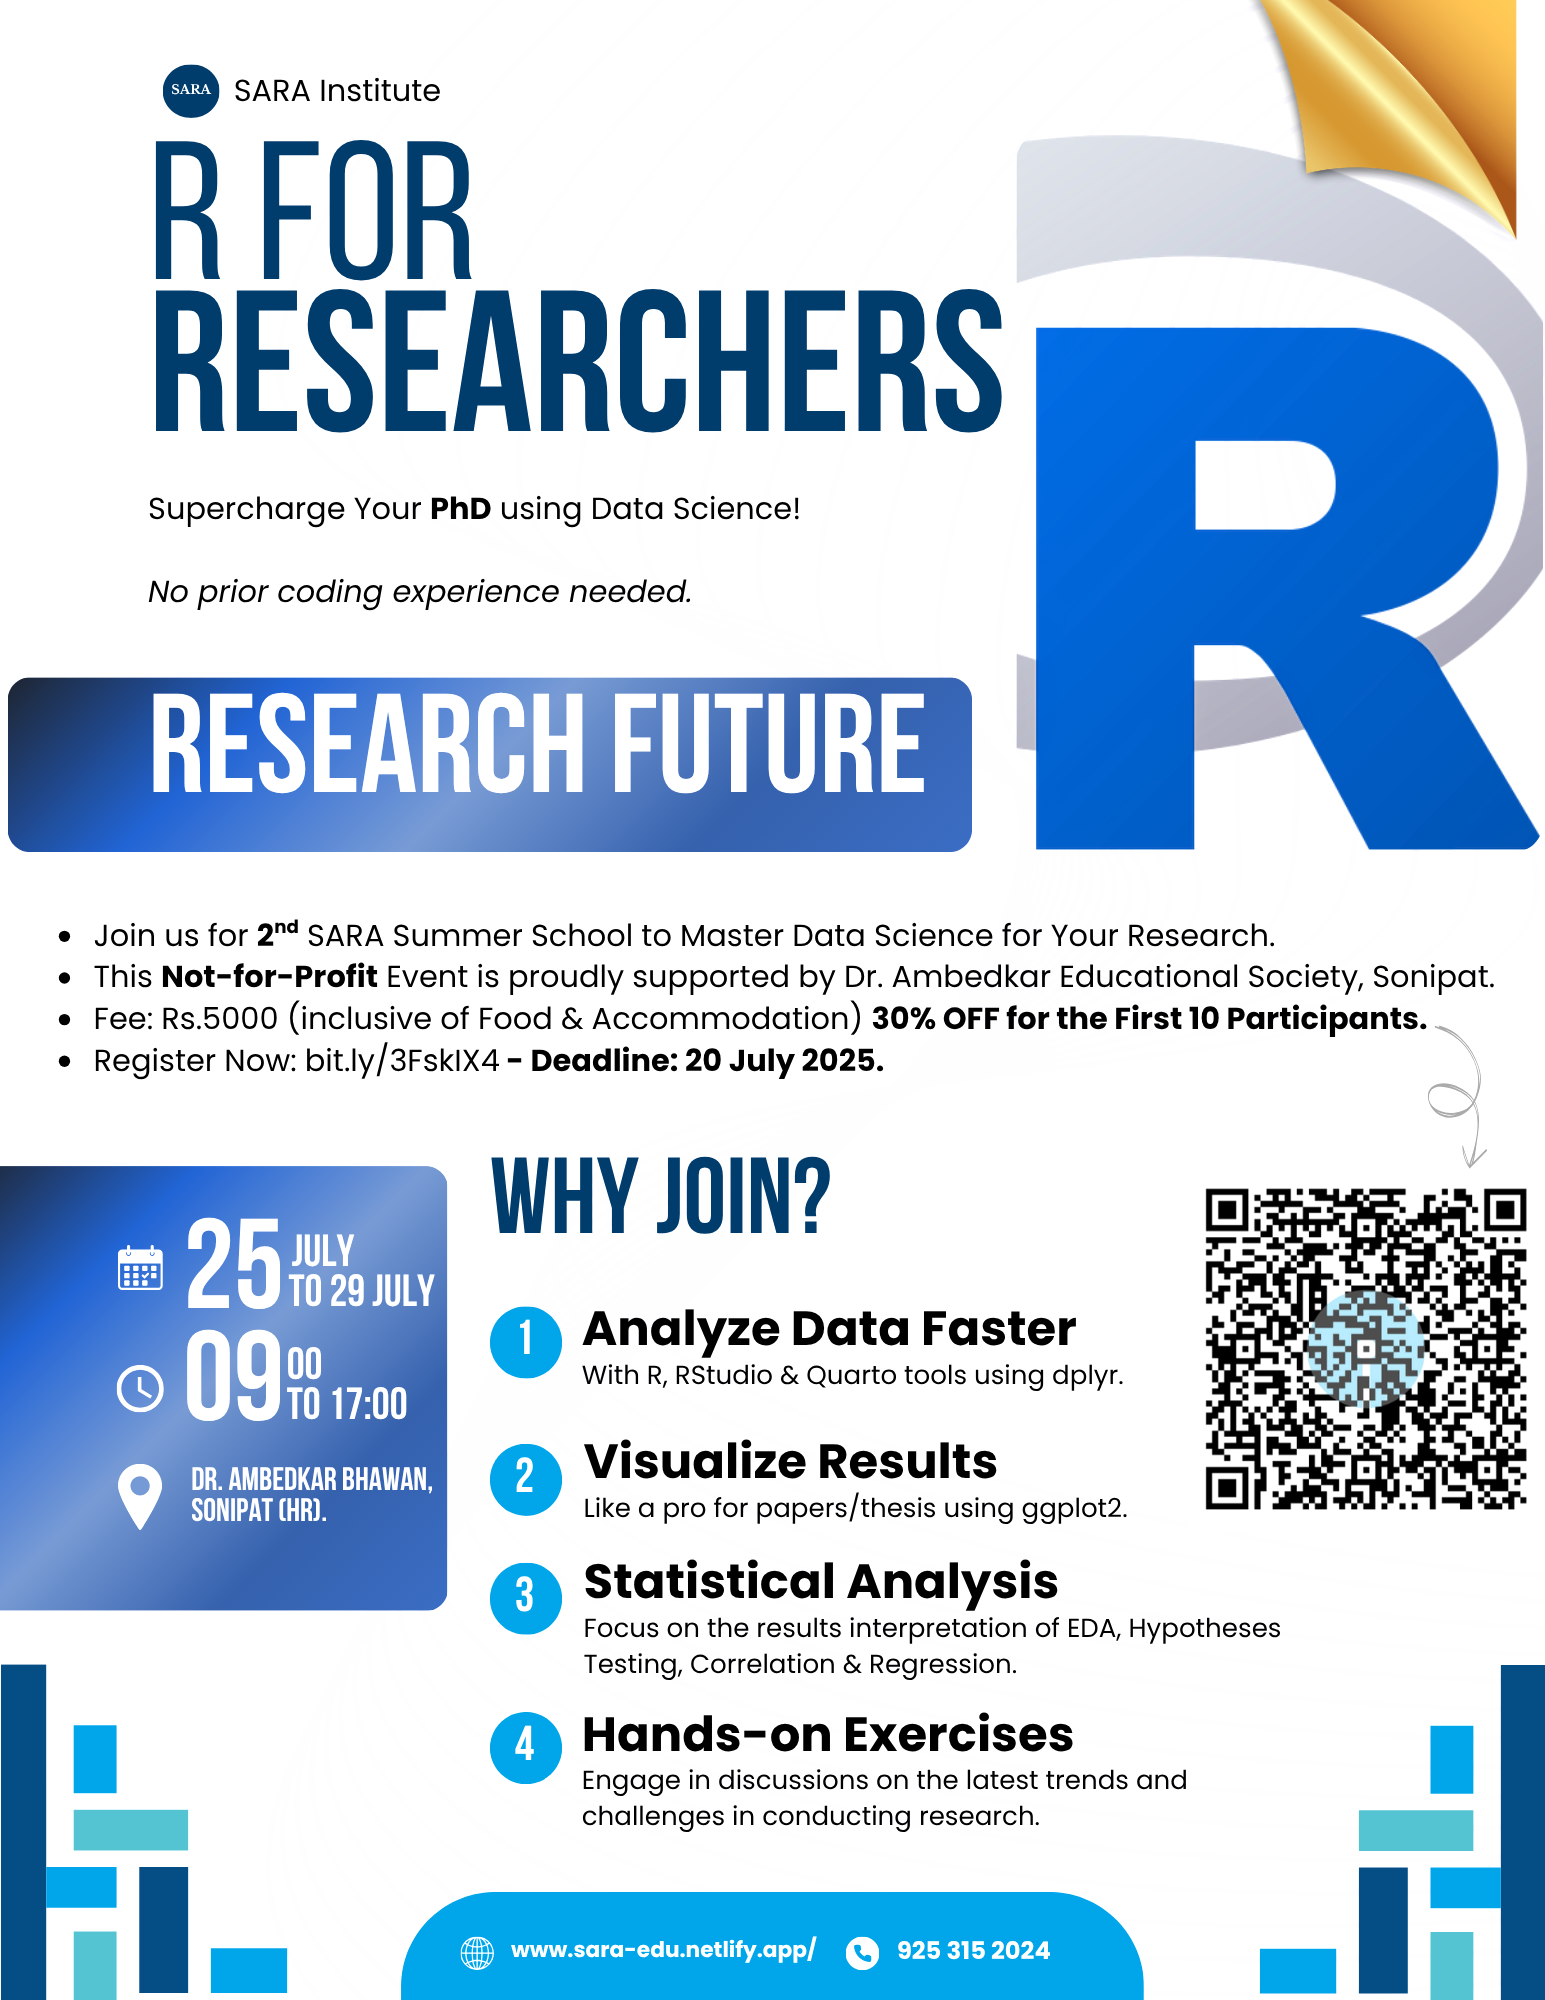
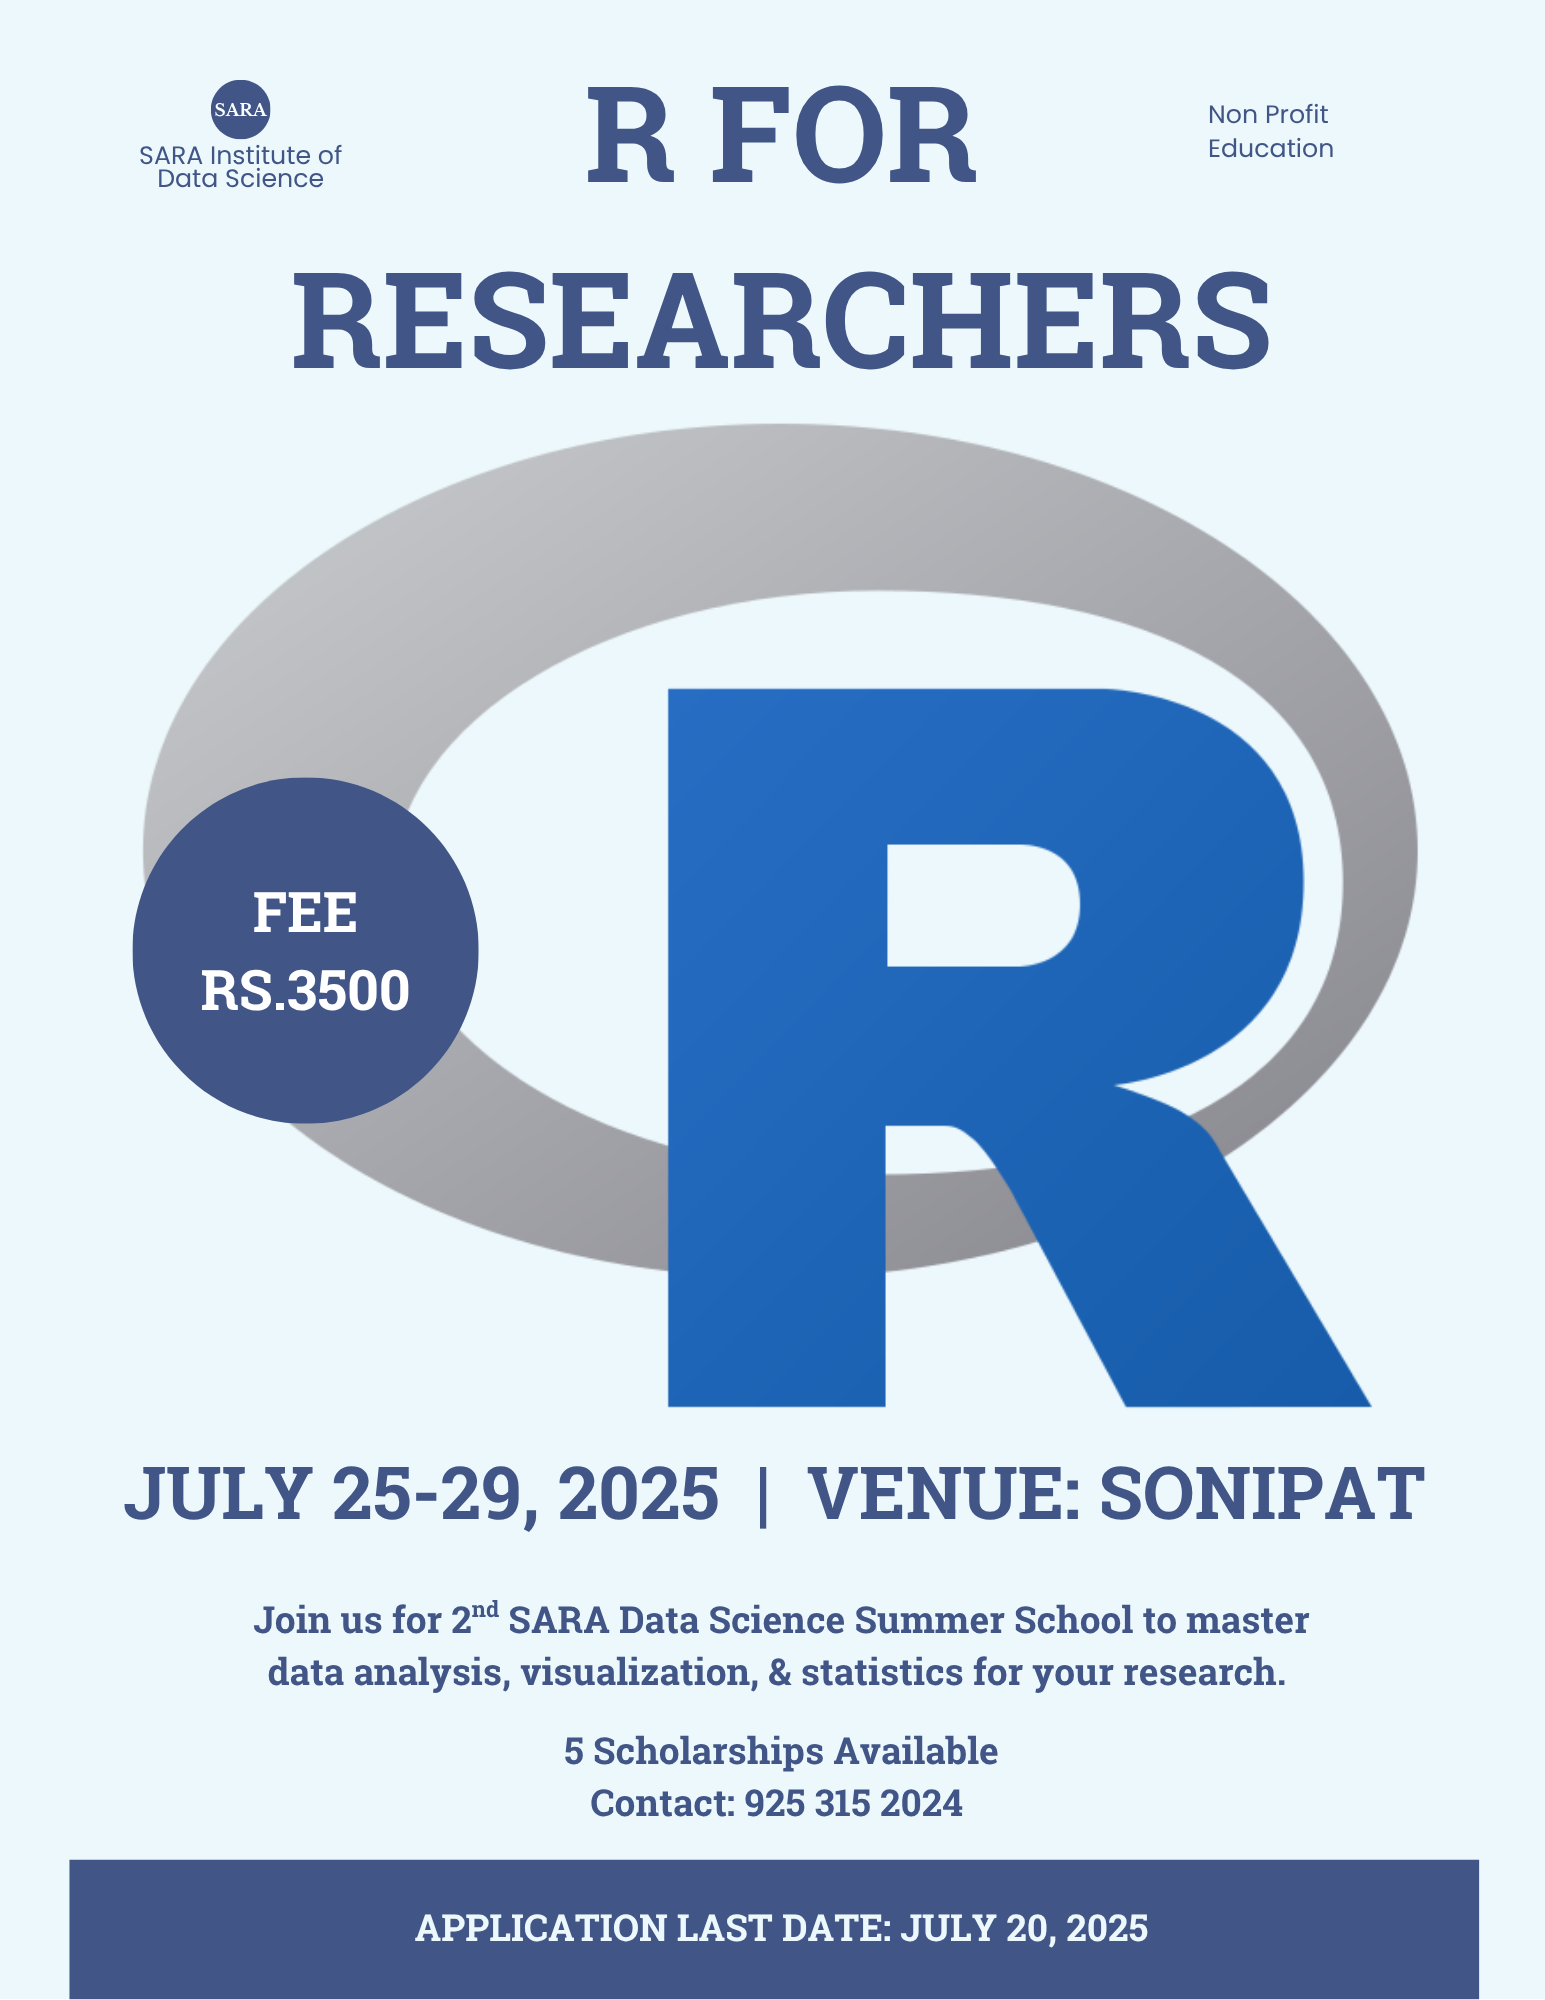
added r july flyer

diff --git a/_site/summer/2025-r4b/index.html b/_site/summer/2025-r4b/index.html
@@ -237,56 +237,12 @@ ul.task-list li input[type="checkbox"] {
 <div style="position: relative; width: 100%; height: 0; padding-top: 129.4118%;
  padding-bottom: 0; box-shadow: 0 2px 8px 0 rgba(63,69,81,0.16); margin-top: 1.6em; margin-bottom: 0.9em; overflow: hidden;
  border-radius: 8px; will-change: transform;">
-<p><iframe loading="lazy" style="position: absolute; width: 100%; height: 100%; top: 0; left: 0; border: none; padding: 0;margin: 0;" src="https://www.canva.com/design/DAGos0QolWg/Z4Bd2NloyphIKt0X_urKGA/view?embed" allowfullscreen="allowfullscreen" allow="fullscreen"> </iframe></p>
+<p><iframe loading="lazy" style="position: absolute; width: 100%; height: 100%; top: 0; left: 0; border: none; padding: 0;margin: 0;" src="https://www.canva.com/design/DAGrVLyrhqI/Dpu58fSx16DVxaOT-79VyA/view?embed" allowfullscreen="allowfullscreen" allow="fullscreen"> </iframe></p>
 </div>
-<p><a href="https://www.canva.com/design/DAGos0QolWg/Z4Bd2NloyphIKt0X_urKGA/view?utm_content=DAGos0QolWg&amp;utm_campaign=designshare&amp;utm_medium=embeds&amp;utm_source=link" target="_blank" rel="noopener">r-summer-school</a> by Sara Institute</p>
-<!-- ::: {.centering} -->
-<!-- # [Online Expert Lectures]{style="color:#228B22"} -->
-<!-- ::: {.layout-grid} -->
-<!-- ::: {.col} -->
-<!-- ::: {.card} -->
-<!-- ![](images/Gareth-Edanz.jpeg) -->
-<!-- **Dr. Gareth Dyke** | [](https://www.linkedin.com/in/garethdyke/) -->
-<!-- [ Date: 21 April  Time: 4 PM IST]{style="color:#228B22"} -->
-<!-- PhD in Geology & Biology, University of Bristol.  -->
-<!-- +380 Peer Reviewed Articles includes *Nature* & *Science*. -->
-<!-- Co-Founder of [Sci-Train](https://sci-train.com/) -->
-<!-- Talk: [**Effective Research Writing**]{style="color:#228B22"} -->
-<!-- ::: -->
-<!-- ::: -->
-<!-- ::: {.col} -->
-<!-- ::: {.card} -->
-<!-- ![](images/sam-madam.jpg) -->
-<!-- **Dr. Samantha MacBride** | [](https://www.linkedin.com/in/samantha-macbride-1664815/) -->
-<!-- Adj Asst Professor, Baruch College, USA. -->
-<!-- Talk: [**Framing Research Questions**]{style="color:#228B22"} -->
-<!-- [ Date: 22 April  Time: 5 PM IST]{style="color:#228B22"} -->
-<!-- ::: -->
-<!-- ::: {.card} -->
-<!-- ![](images/dare.png) -->
-<!-- **Dr. Eleanor Dare** | [](https://www.linkedin.com/in/dr-eleanor-dare-09b93bb/) -->
-<!-- Post Doctoral Research Associate, University of Cambridge -->
-<!-- Co Founder of [Xordinary](https://xordinarystories.com/). -->
-<!-- Talk: [**Forensic AI**]{style="color:#228B22"} -->
-<!-- [ Date: 23 April  Time: 4 PM IST]{style="color:#228B22"} -->
-<!-- ::: -->
-<!-- ::: -->
-<!-- ::: {.col} -->
-<!-- ::: {.card} -->
-<!-- ![](images/raju.jpg) -->
-<!-- **Dr. Raju Chalwadi** | [](https://www.linkedin.com/in/raju-chalwadi-621489a0/) -->
-<!-- New Political Economy Initiative, IIT--Bombay -->
-<!-- Former Fulbright Fellow (2022-23), University of California, Santa Cruz -->
-<!-- M.A. Development Studies -- Tata Institute of Social Sciences -->
-<!-- Talk: [**Ethnographic Research**]{style="color:#228B22"} -->
-<!-- [ Date: 24 April  Time: 4 PM IST]{style="color:#228B22"} -->
-<!-- ::: -->
-<!-- ::: -->
-<!-- ::: -->
-<!-- ::: -->
+<p><a href="https://www.canva.com/design/DAGrVLyrhqI/Dpu58fSx16DVxaOT-79VyA/view?utm_content=DAGrVLyrhqI&amp;utm_campaign=designshare&amp;utm_medium=embeds&amp;utm_source=link" target="_blank" rel="noopener">r-july-flyer</a> by Sara Institute</p>
 <p><br></p>
 <section id="invited-guest-talks" class="level1 centering">
-<h1>Invited Guest Talks</h1>
+<h1><span style="color:#ffae09">Invited Guest Talks</span></h1>
 <div class="layout-grid">
 <div class="col">
 
@@ -316,8 +272,8 @@ ul.task-list li input[type="checkbox"] {
 <h2 class="anchored" data-anchor-id="key-highlights"><span style="color:#ffae09">Key Highlights</span></h2>
 <ul>
 <li><strong>Hands-On Learning:</strong> Code, analyze, and visualize real-world datasets.</li>
-<li><strong>Expert Instructors:</strong> Learn from a PhD and data science professional.</li>
-<li><strong>Fellowships for Marginalized Communities:</strong> Scholarships available (priority to women, rural students, and SC/ST/OBC candidates).</li>
+<li><strong>Expert Instructors:</strong> Learn from international data science expert professionals.</li>
+<li><strong>Fellowships for Marginalized Communities:</strong> 5 Scholarships available (priority to women, rural students, and SC/ST/OBC candidates).</li>
 <li><strong>Certificate of Completion:</strong> Boost your resume with a SARA-certified credential.</li>
 <li><strong>Networking:</strong> Connect with peers and mentors in the data science field.</li>
 </ul>
@@ -346,7 +302,7 @@ ul.task-list li input[type="checkbox"] {
 <ul>
 <li><strong>Dates</strong>: 25-29 July 2025</li>
 <li><strong>Duration</strong>: 5 days</li>
-<li><strong>Fee</strong>: ₹5,000 INR (Inclusive of food and accommodation), <strong>scholarships available</strong> for eligible candidates</li>
+<li><strong>Fee</strong>: ₹3,500 INR (Inclusive of food and accommodation), <strong>scholarships available</strong> for eligible candidates</li>
 <li><strong>Payment</strong>: You can secure your spot by making the payment via below QR or using our UPI ID is <code>919253152024@sbi</code>.</li>
 <li><strong>Location</strong>: SARA Institute, Dr.&nbsp;Ambedkar Bhavan, Kakroi Road (near Dayanand Hospital), Sonipat, Haryana - 131001.</li>
 </ul>

diff --git a/_site/summer.html b/_site/summer.html
@@ -297,7 +297,7 @@ window.Quarto = {
 
 </span><div class="quarto-listing quarto-listing-container-default" id="listing-listing">
 <div class="list quarto-listing-default">
-<div class="quarto-post image-right" data-index="0" data-categories="UiUyQ0RhdGElMjBTY2llbmNlJTJDU3VtbWVyJTIwU2Nob29sJTJDT3Blbg==" data-listing-date-sort="1748457000000" data-listing-file-modified-sort="1750427634735" data-listing-date-modified-sort="NaN" data-listing-reading-time-sort="6" data-listing-word-count-sort="1084">
+<div class="quarto-post image-right" data-index="0" data-categories="UiUyQ0RhdGElMjBTY2llbmNlJTJDU3VtbWVyJTIwU2Nob29sJTJDT3Blbg==" data-listing-date-sort="1748457000000" data-listing-file-modified-sort="1750835260694" data-listing-date-modified-sort="NaN" data-listing-reading-time-sort="5" data-listing-word-count-sort="835">
 <div class="thumbnail"><a href="./summer/2025-r4b/index.html" class="no-external">
 
 <img loading="lazy" src="./summer/2025-r4b/flyer.png" class="thumbnail-image">

diff --git a/_site/index.html b/_site/index.html
@@ -212,7 +212,7 @@ ul.task-list li input[type="checkbox"] {
 </div>
 <section id="our-mission" class="level1 column-page centering">
 <h1>Our Mission</h1>
-<p><span class="p-mission">SARA is a non-profit education institute democratizing data science across India. We break barriers of privilege, technical complexity, and financial exclusion by providing free, inclusive training in coding, English, and data skills — empowering students, researchers, and professionals to transform their futures.</span></p>
+<p><span class="p-mission">SARA is a non-profit educational institute committed to delivering inclusive data science education. We break down barriers of privilege, technical complexity, and financial exclusion by providing accessible training in coding, English, and data skills—empowering students, researchers, and professionals to shape their own futures.</span></p>
 <div class="button">
 <p><a href="./about.html">Learn more</a></p>
 </div>
